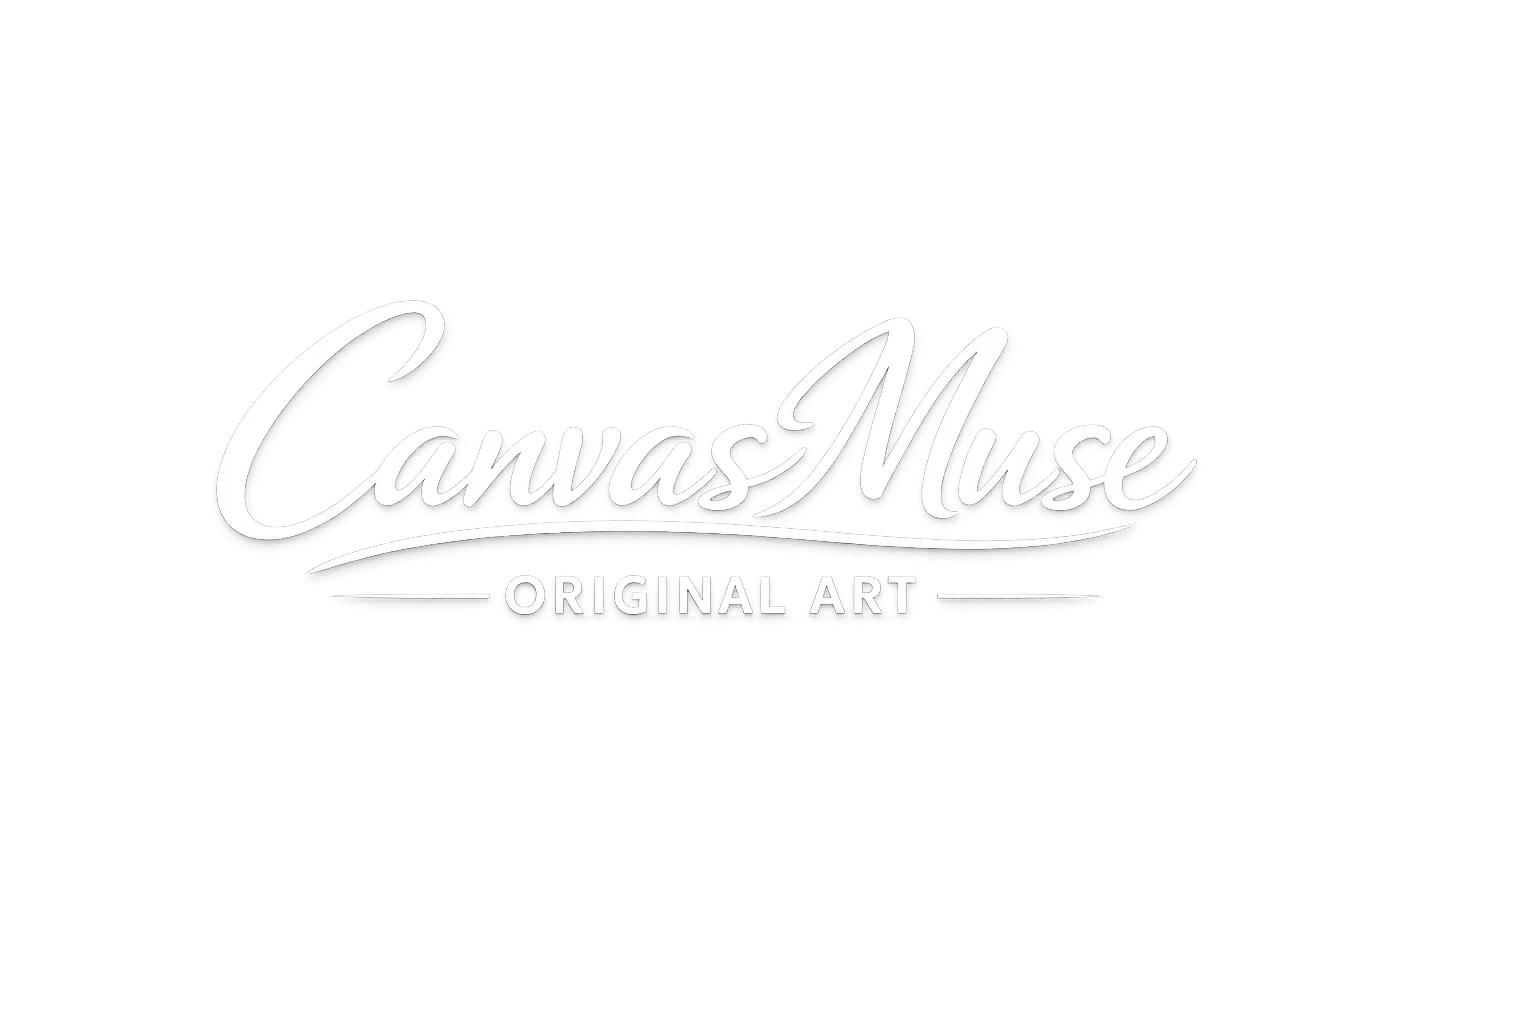
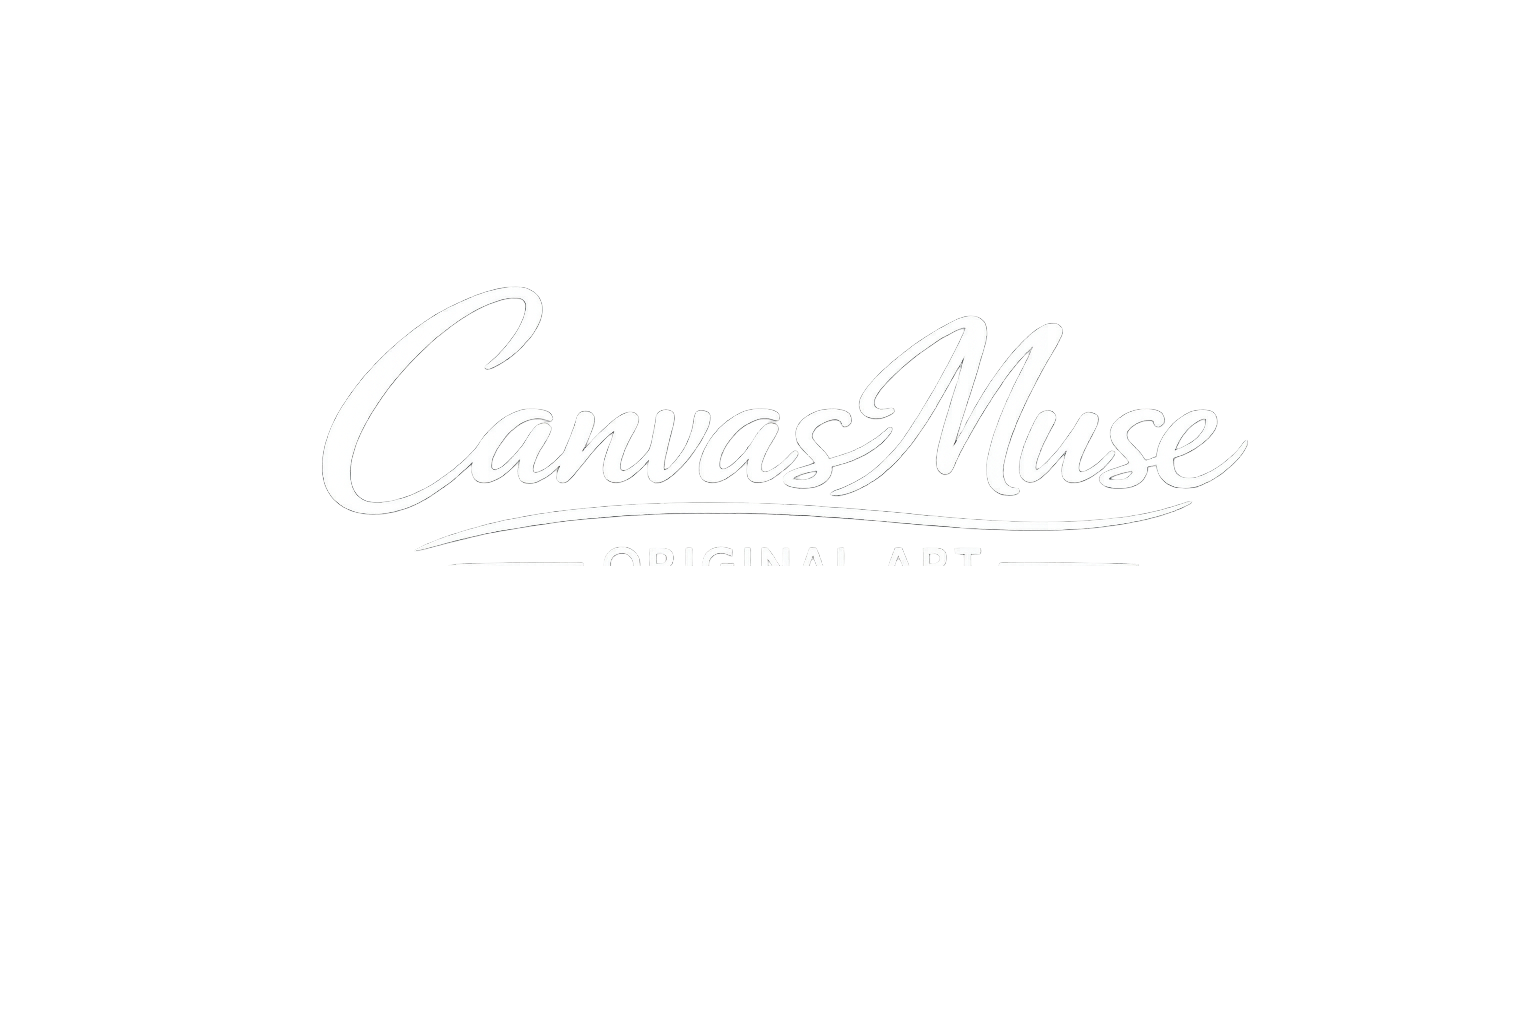
Upgrade of page content

diff --git a/app/gallery/[id]/page.tsx b/app/gallery/[id]/page.tsx
@@ -47,15 +47,15 @@ export default async function ArtworkPage({ params }: PageProps) {
           <div className="grid gap-16 lg:grid-cols-2">
 
             {/* Artwork */}
-            <div className="relative h-[700px] overflow-hidden rounded-[36px] shadow-2xl">
-              <Image
-                src={artwork.image}
-                alt={artwork.title}
-                fill
-                priority
-                className="object-cover"
-              />
-            </div>
+<div className="relative h-[700px] overflow-hidden rounded-[36px] shadow-2xl">
+  <Image
+    src={artwork.image}
+    alt={artwork.title}
+    fill
+    priority
+    className="object-cover"
+  />
+</div>
 
             {/* Info */}
             <div className="flex flex-col justify-center">

diff --git a/components/About.tsx b/components/About.tsx
@@ -22,12 +22,14 @@ export default function About() {
 
           <div className="relative h-[450px] overflow-hidden rounded-[36px] shadow-2xl lg:h-[650px]">
   <Image
-    src="/images/artist.jpg"
-    alt="Artist working on a painting"
-    fill
-    priority
-    className="object-cover"
-  />
+  src="/images/artist.jpg"
+  alt="Artist working on a painting"
+  fill
+  priority
+  sizes="(max-width: 1024px) 100vw, 50vw"
+  className="object-cover"
+  draggable={false}
+/>
 </div>
         </motion.div>
 